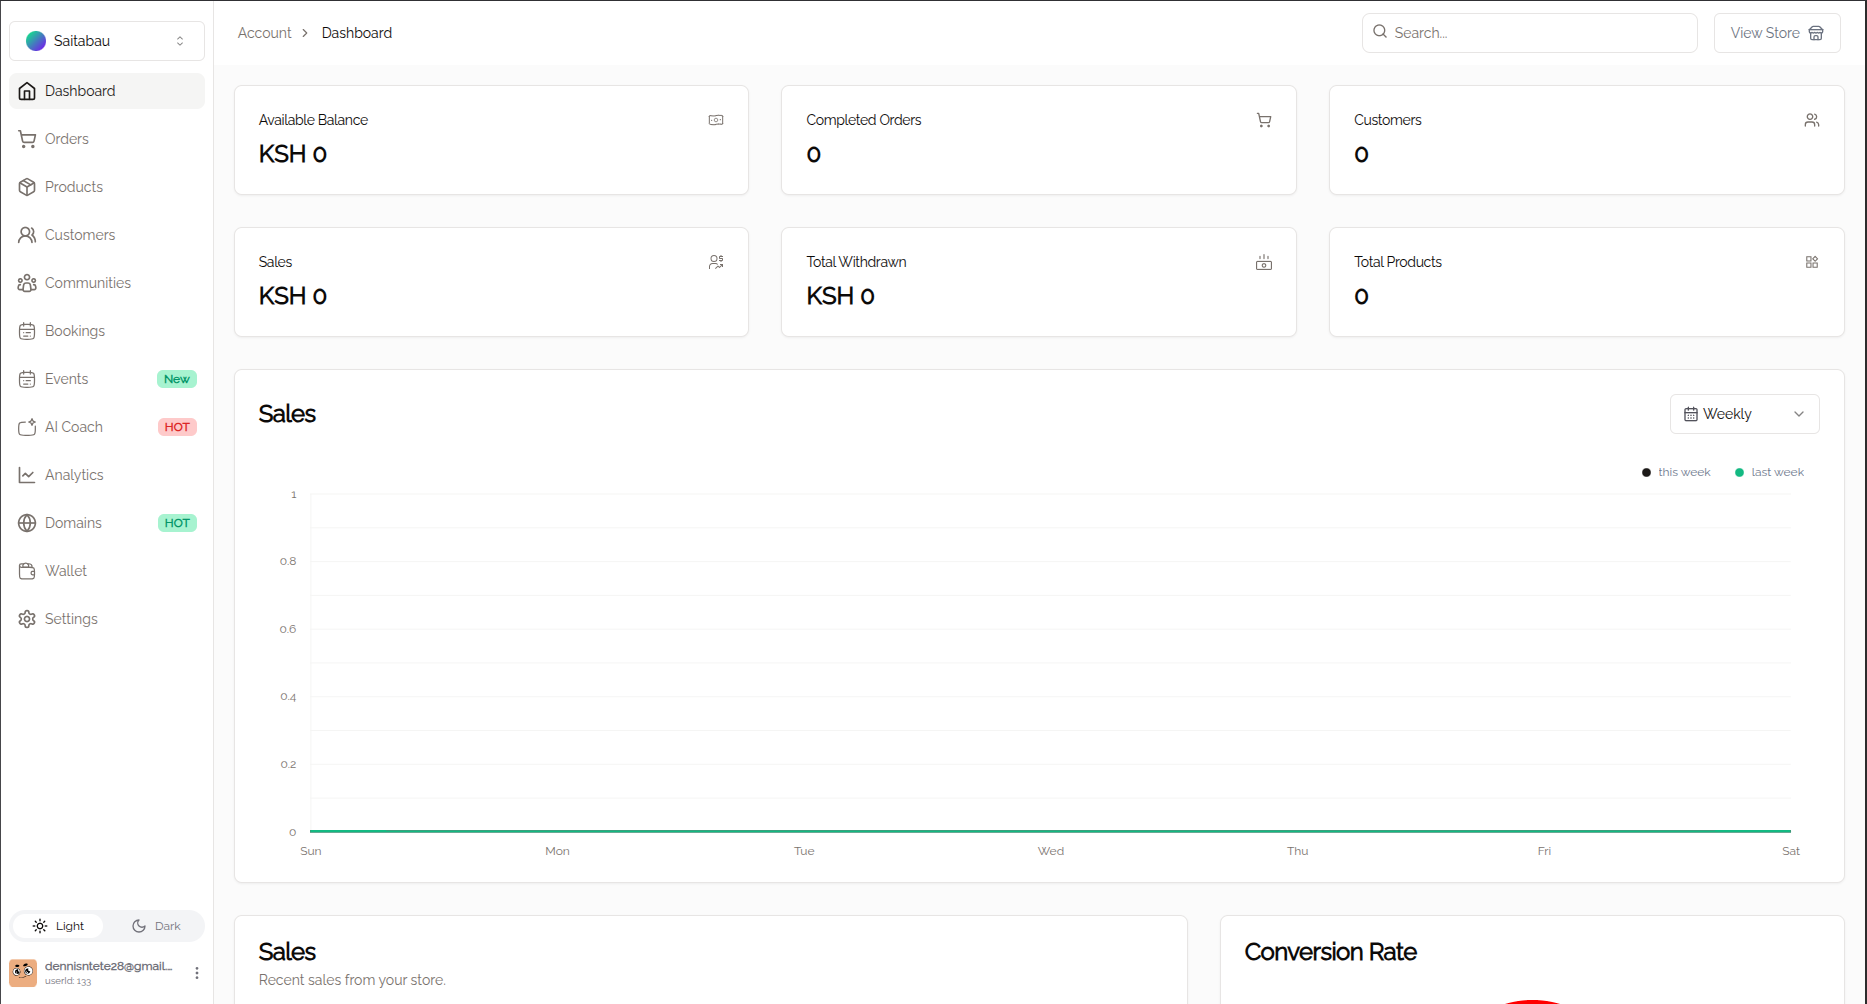
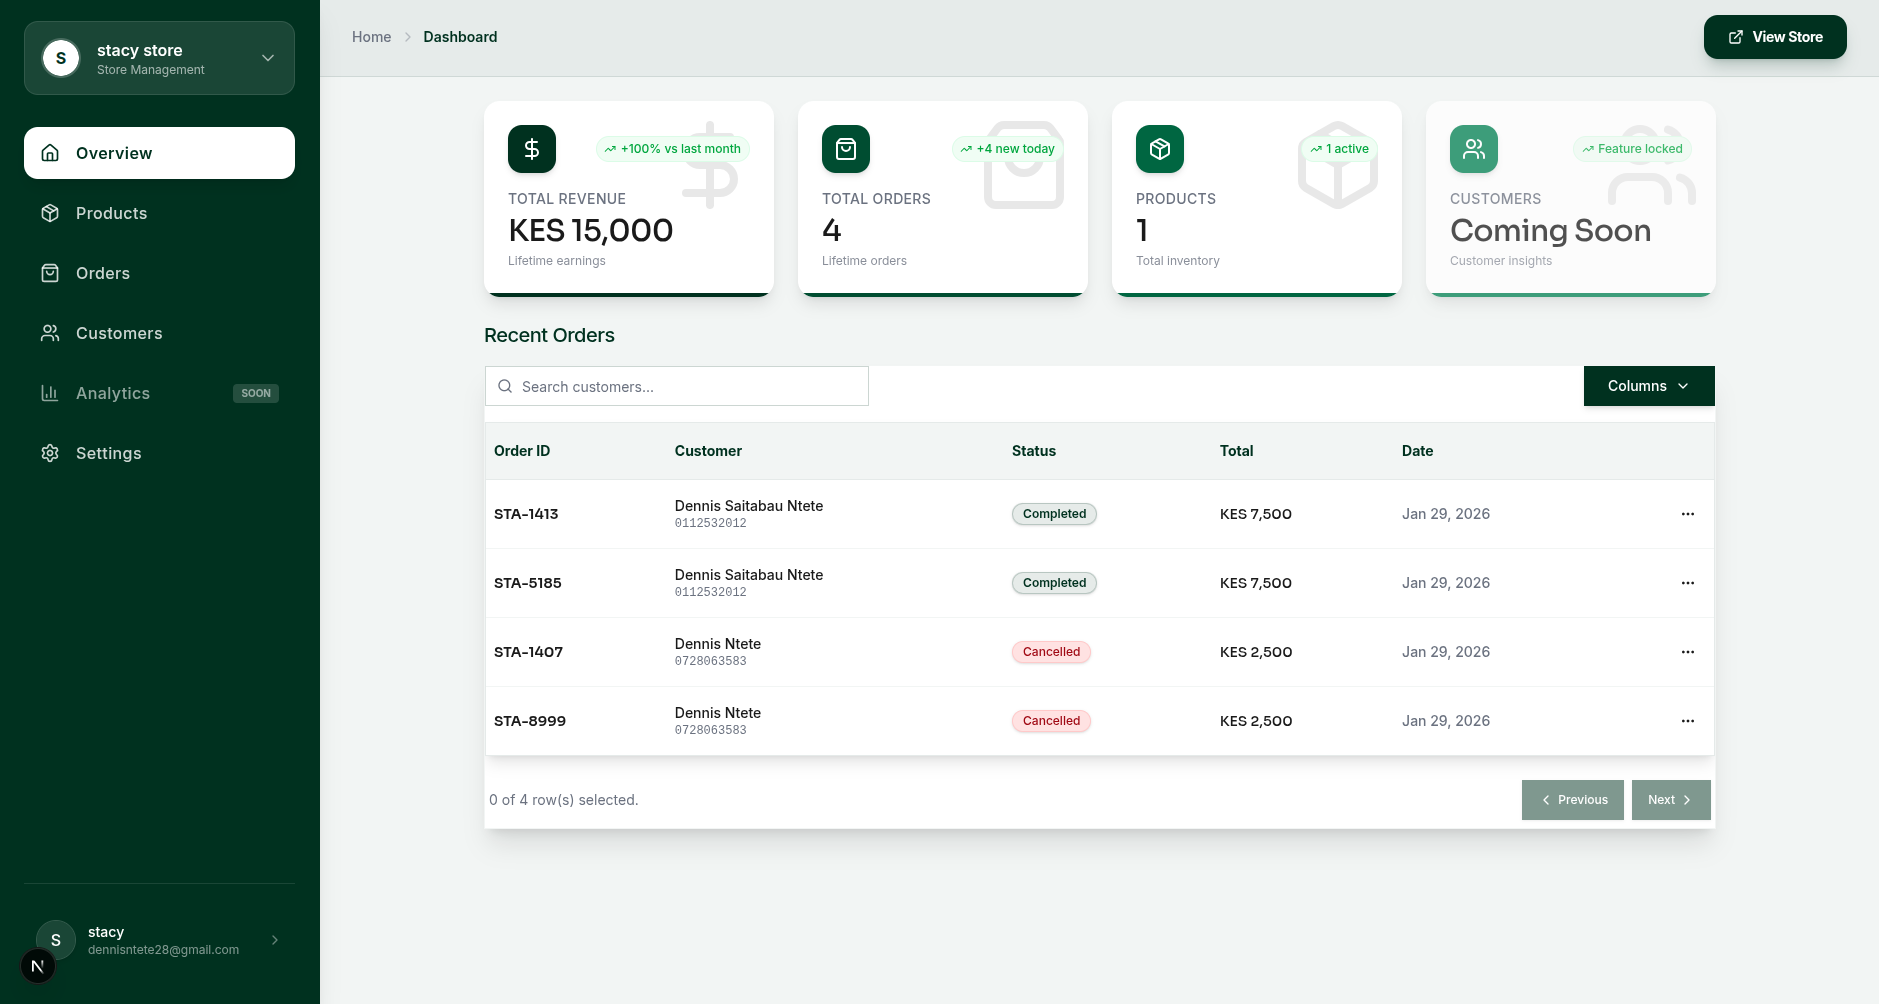
feat: integrate Africastalking SMS service for order notifications

diff --git a/src/app/[storeSlug]/checkout/page.tsx b/src/app/[storeSlug]/checkout/page.tsx
@@ -67,22 +67,19 @@ export default function CheckoutPage() {
       const orderId = result.orderId;
 
       if (data.paymentMethod === 'whatsapp') {
-          const message = `*New Order #${orderId}*\n` +
-            `--------------------------------\n\n` +
-            `*Customer Details:*\n` +
+          const message = `*NEW ORDER: ${useStore().storeName.toUpperCase()}*\n\n` +
+            `*Order ID:* #${orderId}\n\n` +
+            `*CUSTOMER DETAILS*\n` +
             `Name: ${data.name}\n` +
             `Phone: ${data.phone}\n` +
-            `Email: ${data.email}\n` +
             `Address: ${data.address}\n` +
             `${data.notes ? `Notes: ${data.notes}\n` : ''}\n` +
-            `*Order Summary:*\n` +
-            `--------------------------------\n` +
+            `*ORDER SUMMARY*\n` +
             `${cart.map(item =>
-              `- ${item.name} x${item.quantity}${item.variant ? ` (${item.variant})` : ''} - ${currency} ${(item.price * item.quantity).toLocaleString()}`
-            ).join('\n')}\n` +
-            `--------------------------------\n` +
-            `*Total: ${currency} ${cartTotal.toLocaleString()}*\n\n` +
-            `_Awaiting confirmation via WhatsApp_`;
+              `- ${item.name} x${item.quantity}${item.variant ? ` (${item.variant})` : ''} (${currency} ${(item.price * item.quantity).toLocaleString()})`
+            ).join('\n')}\n\n` +
+            `*TOTAL AMOUNT: ${currency} ${cartTotal.toLocaleString()}*\n\n` +
+            `_Please confirm my order_`;
 
           // Clean the store's whatsapp number (remove spaces, dashes, etc.)
           let cleanPhone = whatsappNumber.replace(/\D/g, '');

diff --git a/src/lib/actions/orders.ts b/src/lib/actions/orders.ts
@@ -5,6 +5,7 @@ import { revalidatePath } from "next/cache";
 import { authOptions } from "@/lib/auth";
 import db from "@/lib/db";
 import { z } from "zod";
+import { sendSMS } from "@/lib/sms";
 
 const CreateOrderSchema = z.object({
   storeId: z.string(),
@@ -64,6 +65,19 @@ export async function createOrder(data: z.infer<typeof CreateOrderSchema>) {
         }
       }
     });
+
+    // Send SMS Notification (Fire and forget, or await safely)
+    if (store.whatsappNumber) {
+      const message = `You have a new order! Order ID: #${order.displayId || order.orderNumber}`;
+      
+      // We await this to ensure it runs before server action returns, 
+      // but catch error so it doesn't block success.
+      try {
+        await sendSMS(store.whatsappNumber, message);
+      } catch (smsError) {
+        console.error("Failed to send order SMS:", smsError);
+      }
+    }
 
     return { success: true, orderId: order.displayId || order.orderNumber, id: order.id };
   } catch (error) {

diff --git a/src/lib/sms.ts b/src/lib/sms.ts
@@ -1,0 +1,26 @@
+import AfricasTalking from "africastalking";
+
+const africastalking = AfricasTalking({
+  apiKey: process.env.AT_API_KEY || "", 
+  username: process.env.AT_USERNAME || "sandbox"
+});
+
+export const sendSMS = async (to: string, message: string) => {
+  if (!process.env.AT_API_KEY) {
+    console.warn("Skipping SMS: AT_API_KEY not found in environment variables.");
+    return { success: false, error: "Missing API Key" };
+  }
+
+  try {
+    const result = await africastalking.SMS.send({
+      to: [to],
+      message: message,
+      // from: "YourSenderID" // Optional, defaults to "AFRICASTKNG" or sandbox
+    });
+    console.log("SMS sent successfully:", result);
+    return { success: true, result };
+  } catch (error) {
+    console.error("Error sending SMS:", error);
+    return { success: false, error };
+  }
+};
